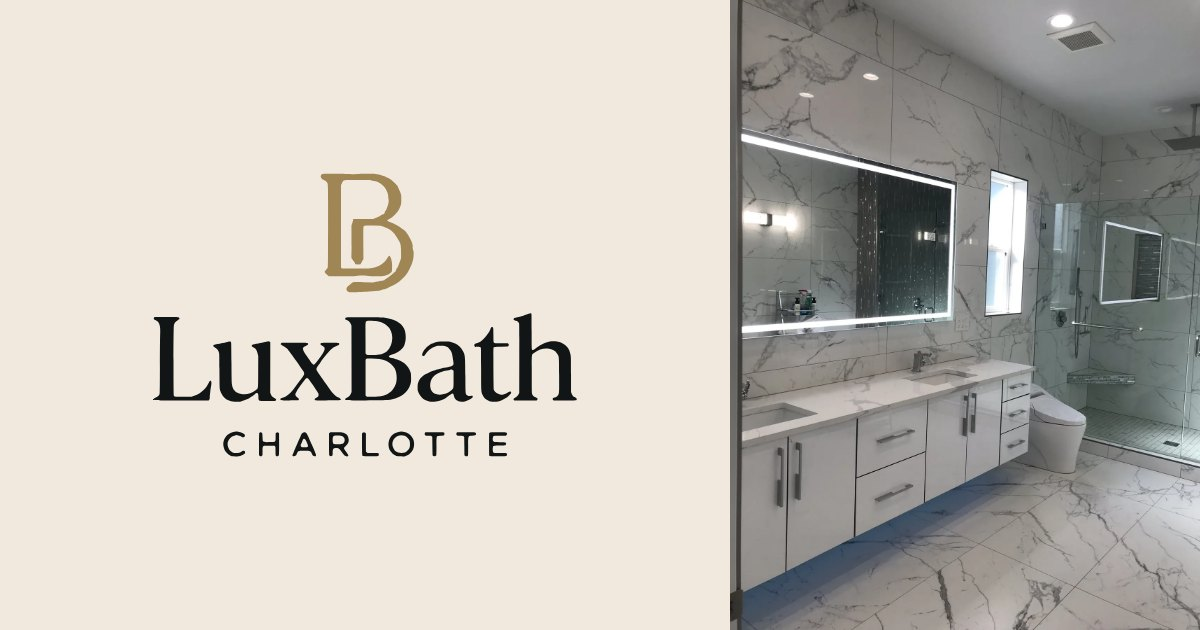
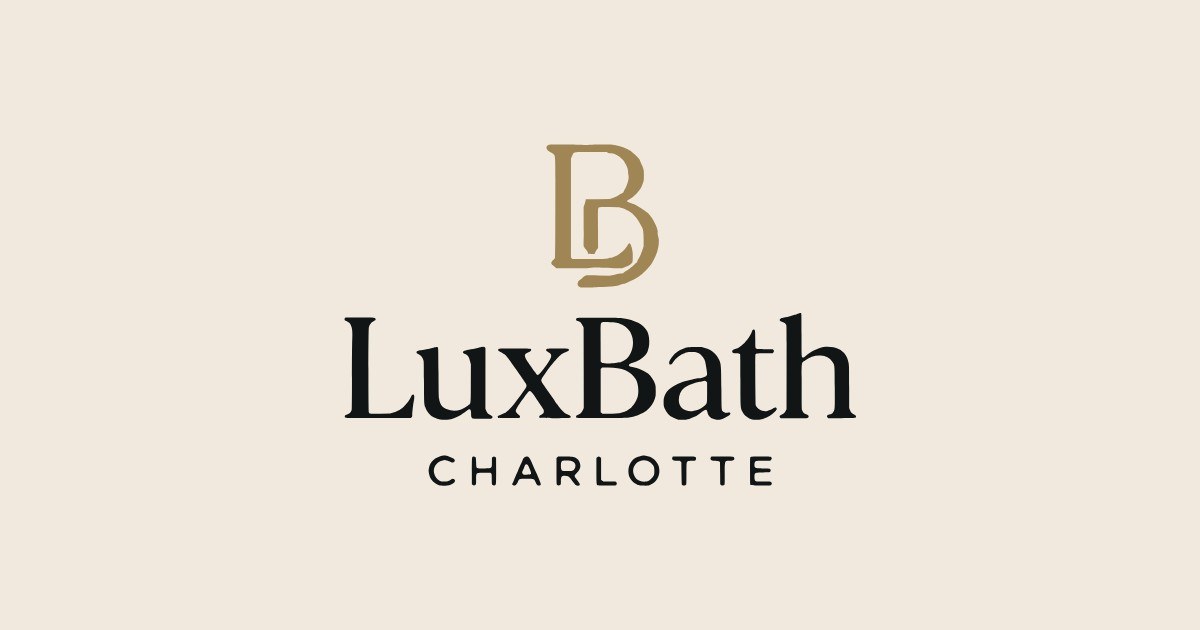
Update OG Image; add GA events

diff --git a/js/main.js b/js/main.js
@@ -28,6 +28,33 @@
     reveals.forEach(function (el) { el.classList.add('in'); });
   }
 
+  /* Google Analytics events */
+  function track(name, params) {
+    if (typeof window.gtag === 'function') {
+      params = params || {};
+      params.transport_type = 'beacon';
+      window.gtag('event', name, params);
+    }
+  }
+  function where(el) {
+    if (el.closest('.site-header')) return 'header';
+    if (el.closest('.site-footer, footer')) return 'footer';
+    if (el.closest('.hero')) return 'hero';
+    if (el.closest('.cta-band')) return 'cta_band';
+    var s = el.closest('section');
+    return s && s.id ? s.id : 'body';
+  }
+  /* Every button that leads to the consultation/contact page */
+  document.addEventListener('click', function (e) {
+    var a = e.target.closest('a.btn[href]');
+    if (!a || !/(^|\/)contact(\/|\.html)?(#.*)?$/.test(a.getAttribute('href'))) return;
+    track('consultation_click', {
+      button_text: a.textContent.trim().replace(/\s+/g, ' '),
+      button_location: where(a),
+      page_path: location.pathname
+    });
+  });
+
   /* Year */
   document.querySelectorAll('[data-year]').forEach(function (el) { el.textContent = new Date().getFullYear(); });
 
@@ -124,6 +151,12 @@
       if (!ok) return;
 
       var data = new FormData(form);
+      track('generate_lead', {
+        form_name: 'estimate_request',
+        project_type: data.get('Project') || '',
+        timeline: data.get('Timeline') || '',
+        method: form.getAttribute('data-endpoint') ? 'form_service' : 'email_app'
+      });
       var endpoint = form.getAttribute('data-endpoint');
       var success = document.querySelector('.form-success');
       function done() { form.hidden = true; success.classList.add('show'); success.scrollIntoView({ behavior: 'smooth', block: 'center' }); }
